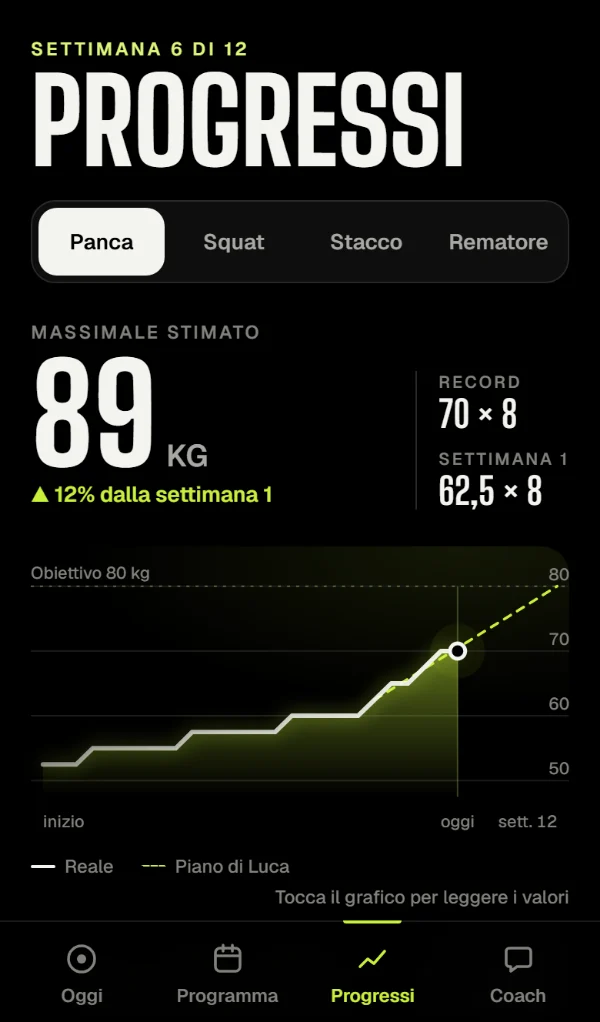
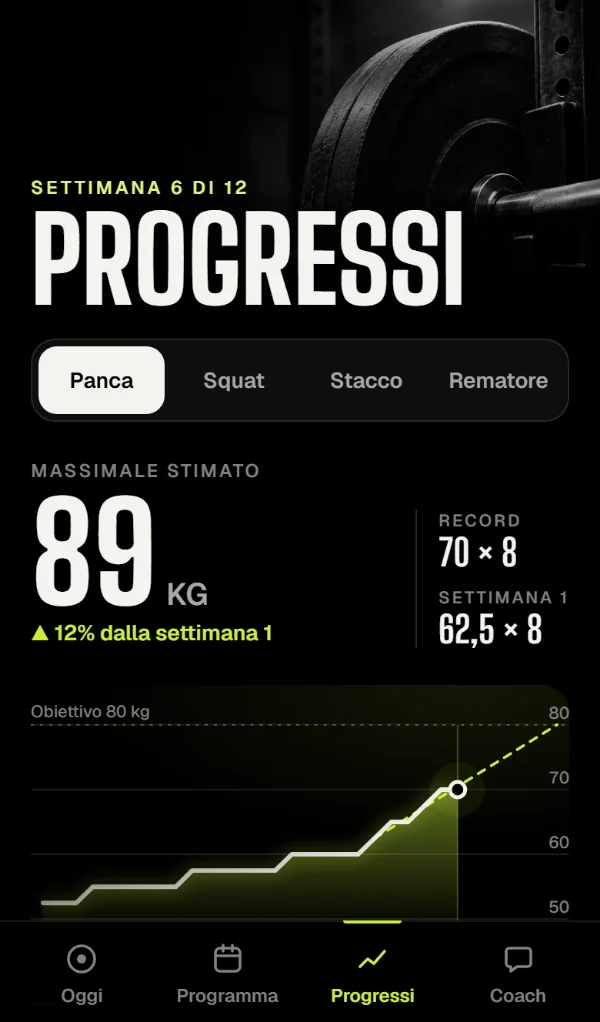
feat: foto nuove (testata Progressi, card 12 settimane, video panca piana di Luca)

diff --git a/assets/js/progressi.js b/assets/js/progressi.js
@@ -134,7 +134,7 @@
       { id: 'mese', fatto: true, quando: 'Settimana 4', titolo: 'Primo mese', riga: '4 settimane senza mollare', dato: `${r.fatti - 5 > 18 ? 18 : r.fatti - 5} allenamenti`, foto: 'trag-notte' },
       { id: 'panca70', fatto: true, quando: 'Settimana 5', titolo: 'Panca piana', riga: '70 kg × 8 · +7,5 kg dall’inizio', dato: '70 KG × 8', foto: 'record-marco' },
       { id: 'stacco120', fatto: true, quando: 'Settimana 5', titolo: 'Stacco da terra', riga: '120 kg × 5 · +10 kg dall’inizio', dato: '120 KG × 5', foto: 'trag-piastra' },
-      { id: 'dodici', fatto: false, quando: `Mancano ${D.atleta.settimane - D.atleta.settimana} settimane`, titolo: `${D.atleta.settimane} settimane`, riga: `${r.fatti} / 60 allenamenti · ${r.aderenza}% costanza`, dato: `${D.atleta.settimane} SETTIMANE`, foto: 'hero-push' },
+      { id: 'dodici', fatto: false, quando: `Mancano ${D.atleta.settimane - D.atleta.settimana} settimane`, titolo: `${D.atleta.settimane} settimane`, riga: `${r.fatti} / 60 allenamenti · ${r.aderenza}% costanza`, dato: `${D.atleta.settimane} SETTIMANE`, foto: 'trag-dodici' },
     ];
   }
 
@@ -157,7 +157,8 @@
       </a></li>`).join('');
 
     document.querySelector('[data-vista="progressi"]').innerHTML = `
-      <header class="testa-pagina">
+      <header class="testa-pagina con-foto">
+        <img class="foto-testa" src="assets/foto/progressi-testa.webp" alt="">
         <span class="sopratitolo">Settimana ${D.atleta.settimana} di ${D.atleta.settimane}</span>
         <h1 class="titolo-pagina">Progressi</h1>
       </header>

diff --git a/assets/js/dati.js b/assets/js/dati.js
@@ -35,7 +35,7 @@ window.DATI = {
   // demo = miniatura del video del coach (assets/foto/demo-*.webp) · rec = recupero in secondi
   esercizi: {
     'push-a': [
-      { nome: 'Panca piana', serie: 4, reps: 8, kg: 72.5, rec: 120, prec: [[70, 8], [70, 8], [70, 8], [70, 7]], best: 70, inizio: 62.5, nota: 'Scapole addotte, piedi fermi a terra.', alt: ['Panca piana con manubri', 'Chest press'], demo: null },
+      { nome: 'Panca piana', serie: 4, reps: 8, kg: 72.5, rec: 120, prec: [[70, 8], [70, 8], [70, 8], [70, 7]], best: 70, inizio: 62.5, nota: 'Scapole addotte, piedi fermi a terra.', alt: ['Panca piana con manubri', 'Chest press'], demo: 'demo-panca', durata: '0:21' },
       { nome: 'Lento avanti', serie: 3, reps: 8, kg: 42.5, rec: 90, prec: [[40, 8], [40, 8], [40, 8]], best: 40, inizio: 35, nota: 'Glutei contratti, niente arco nella schiena.', alt: ['Lento con manubri da seduto'], demo: 'demo-lento', durata: '0:22' },
       { nome: 'Spinte inclinate con manubri', serie: 3, reps: 10, kg: 26, rec: 90, prec: [[24, 10], [24, 10], [24, 9]], best: 24, inizio: 20, nota: '', demo: null },
       { nome: 'Croci ai cavi', serie: 3, reps: 12, kg: 15, rec: 60, prec: [[15, 12], [15, 12], [15, 11]], best: 15, inizio: 12.5, nota: 'Gomiti morbidi, chiudi lento.', demo: null },

diff --git a/assets/css/modelli.css b/assets/css/modelli.css
@@ -82,3 +82,9 @@
 .riepilogo { background: none; border: 0; border-radius: 0; padding: 0; border-top: 1px solid rgba(255, 255, 255, .12); }
 .riga-riep { border-bottom: 1px solid rgba(255, 255, 255, .08); min-height: 62px; padding-top: 6px; }
 .riga-riep .nome { font: 700 20px/1.05 var(--display) !important; text-transform: uppercase; }
+
+/* Progressi: foto del disco in testata, a destra (il titolone resta a sinistra sul nero) */
+.testa-pagina.con-foto { position: relative; overflow: hidden; min-height: 200px; justify-content: flex-end; }
+.testa-pagina.con-foto > :not(.foto-testa) { position: relative; z-index: 1; }
+.foto-testa { position: absolute; z-index: 0; inset: 0; width: 100%; height: 100%; object-fit: cover; object-position: 75% 40%; filter: grayscale(1) brightness(.75); }
+.testa-pagina.con-foto::after { content: ''; position: absolute; inset: 0; z-index: 0; background: linear-gradient(90deg, #000 0%, rgba(0, 0, 0, .6) 45%, rgba(0, 0, 0, 0) 75%), linear-gradient(0deg, #000 0%, rgba(0, 0, 0, 0) 40%); }

diff --git a/_build/foto.js b/_build/foto.js
@@ -32,6 +32,10 @@ const FOTO = [
   { da: 'Rematore con bilanciere in palestra.png', a: 'demo-rematore', w: 480 },
   { da: 'Hip thrust in palestra industriale-1.png', a: 'demo-hip-thrust', w: 480 },
   { da: 'Affondo con manubri in palestra.png', a: 'demo-affondi', w: 480 },
+  // 2026-11-03 sera: testata di Progressi, card «12 settimane», video della panca piana (Luca)
+  { da: 'Bilanciere e ghisa nella penombra.png', a: 'progressi-testa', w: 1180 },
+  { da: "Pausa dopo l'allenamento.png", a: 'trag-dodici', w: 800 },
+  { da: 'Panca piana in palestra industriale.png', a: 'demo-panca', w: 480 },
 ];
 
 (async () => {

diff --git a/app.html b/app.html
@@ -68,7 +68,7 @@
 <script src="assets/js/comune.js"></script>
 <script src="assets/js/oggi.js"></script>
 <script src="assets/js/guida.js"></script>
-<script src="assets/js/allenamento.js?v=10"></script>
+<script src="assets/js/allenamento.js?v=11"></script>
 <script src="assets/js/programma.js"></script>
 <script src="assets/js/checkin.js"></script>
 <script src="assets/js/chat.js"></script>
